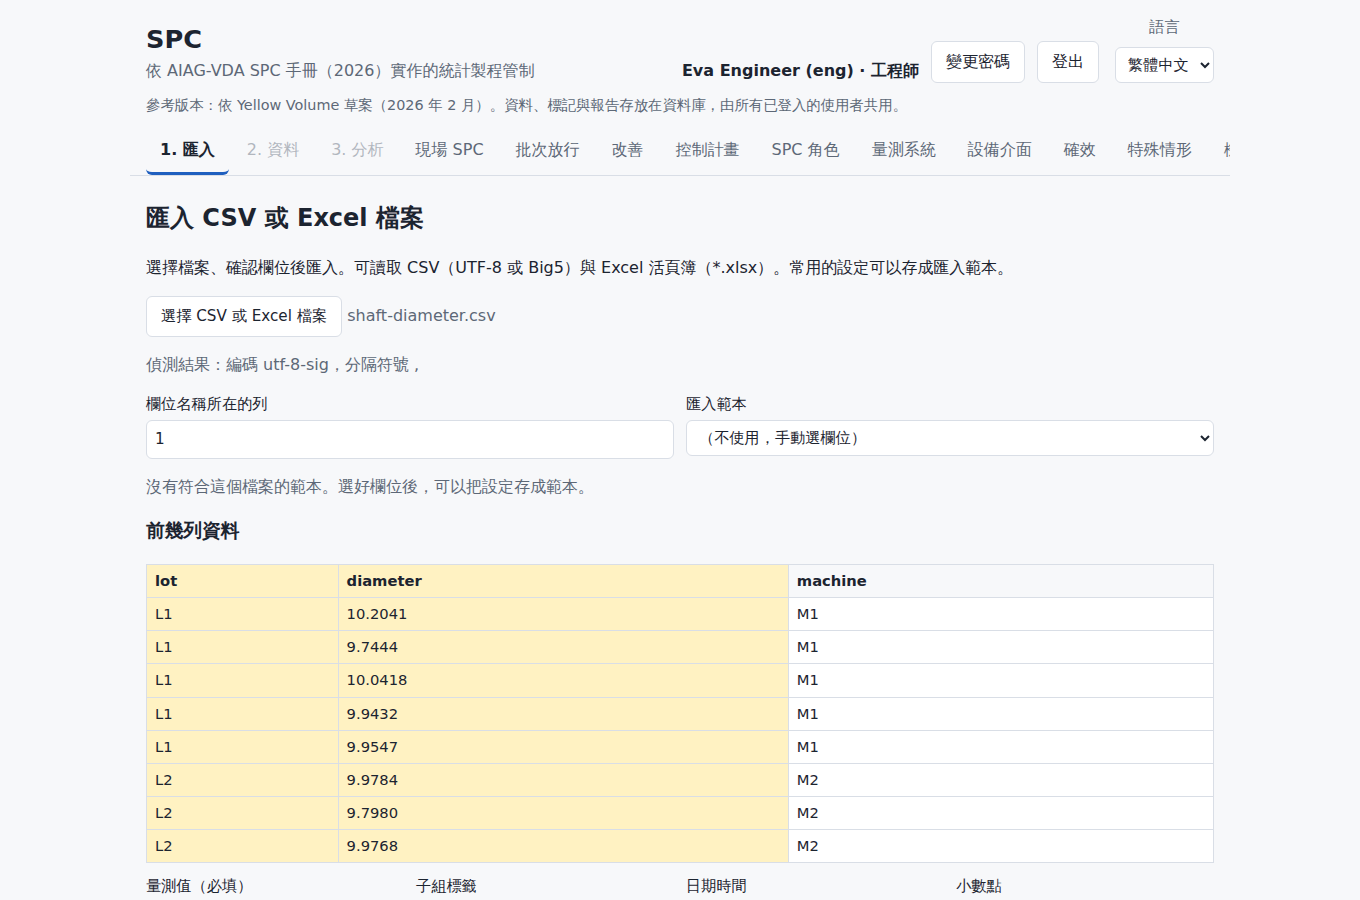
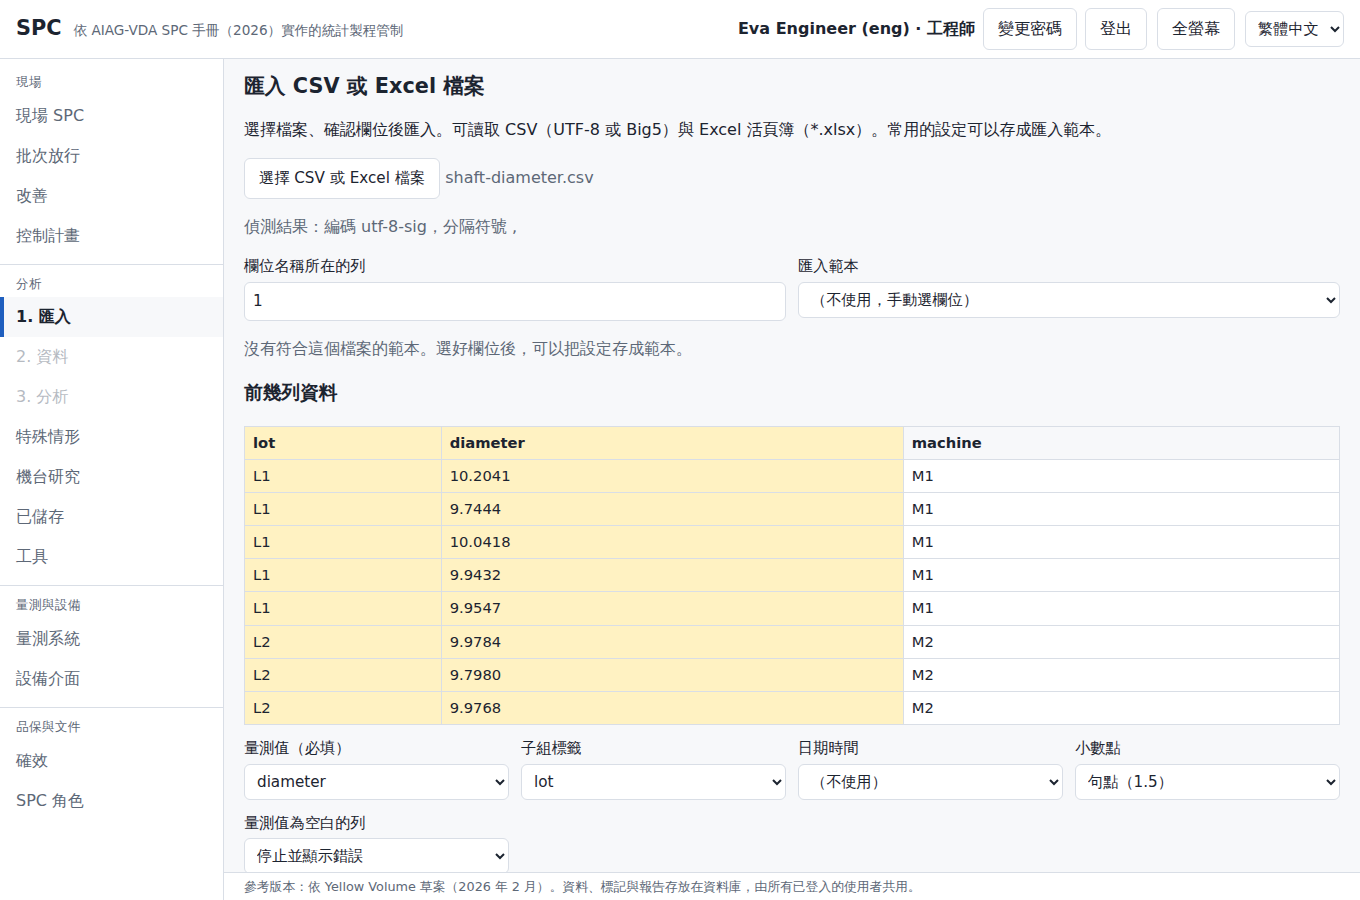
Application frame: fixed layout with a tool column, one screen at a time, pages inside long screens, full screen button
Claude-Session: https://claude.ai/code/session_01WVUQhugMJg5HAizg5gWUFY

diff --git a/src/spc/web/static/app.js b/src/spc/web/static/app.js
@@ -136,6 +136,7 @@
         $("#busy").hidden = true;
         busyButtons.forEach((b) => { b.disabled = b.dataset.wasDisabled === "1"; });
         busyButtons = [];
+        Object.keys(subState).forEach(refreshSubnav);  // the page buttons depend on the state of the screen, not on what they were before the request
       }
     }
   }
@@ -174,6 +175,81 @@
     if (name === "roles") loadRoles();
     if (name === "admin") loadAdmin();
     if (name === "password") renderPasswordPanel();
+  }
+  // ---------------------------------------------------------------- pages inside a screen
+  // A long screen is split into pages with a bar of buttons, so nothing has to be scrolled to find. The parts are hidden with a class (sub-off), because the program
+  // uses `hidden` on the same elements for its own purposes. Screens with a list and a detail view already work like pages and are left alone.
+  const SUBNAV = { analysis: "analysis", tools: "blocks", special: "blocks", admin: "blocks", validation: "blocks", saved: "blocks", roles: "blocks" };
+  const subState = {};
+  function subUnits(section, mode) {
+    const kids = [...section.children].filter((e) => e.tagName !== "H2" && !e.classList.contains("subnav"));
+    if (mode === "analysis") {
+      const result = $("#result"), report = $("#report-card");
+      if (report && report.parentElement === result) section.appendChild(report);  // the report is a page of its own
+      return [
+        { key: "settings", label: () => t("analysis.sub_settings"), els: kids.filter((e) => e !== result && e !== report) },
+        { key: "result", label: () => t("analysis.sub_result"), els: [result], needs: () => !result.hidden },
+        { key: "report", label: () => t("analysis.sub_report"), els: [report], needs: () => !result.hidden },
+      ];
+    }
+    const useH3 = kids.some((e) => e.tagName === "H3");
+    const units = [], lead = [];  // what comes before the first heading (an introduction, a button) belongs to the first page
+    kids.forEach((e) => {
+      if (useH3 ? e.tagName === "H3" : e.classList.contains("card")) units.push({ els: [] });
+      (units.length ? units[units.length - 1].els : lead).push(e);
+    });
+    if (units.length) units[0].els.unshift(...lead);
+    units.forEach((u, i) => {
+      u.key = "p" + i;
+      u.label = () => {
+        const h = u.els.map((e) => (e.matches("h3, h4, summary") ? e : e.querySelector("h3, h4, summary"))).find(Boolean);
+        return h ? h.textContent.trim() : String(i + 1);
+      };
+    });
+    return units;
+  }
+  function buildSubnav(name) {
+    const section = $("#tab-" + name);
+    if (!section || section.querySelector(":scope > .subnav")) return;
+    const units = subUnits(section, SUBNAV[name]);
+    if (units.length < 2) return;
+    const bar = el("div", "subnav");
+    bar.setAttribute("role", "tablist");
+    units.forEach((u) => {
+      const b = el("button", "", "");
+      b.type = "button"; b.setAttribute("role", "tab"); b.dataset.sub = u.key;
+      b.addEventListener("click", () => selectSub(name, u.key));
+      bar.appendChild(b);
+    });
+    section.insertBefore(bar, section.querySelector("h2").nextSibling);
+    units.forEach((u) => u.els.forEach((e) => { e.dataset.subKey = u.key; }));  // which page an element is on
+    subState[name] = { units, bar, current: units[0].key };
+    selectSub(name, units[0].key);
+  }
+  function selectSub(name, key) {
+    const st = subState[name];
+    if (!st) return;
+    const unit = st.units.find((u) => u.key === key);
+    if (!unit || (unit.needs && !unit.needs())) return;
+    st.current = key;
+    st.units.forEach((u) => u.els.forEach((e) => e.classList.toggle("sub-off", u.key !== key)));
+    refreshSubnav(name);
+    const main = $("main"); if (main) main.scrollTop = 0;
+  }
+  function refreshSubnav(name) {  // labels follow the language; a page that needs a result is off until there is one
+    const st = subState[name];
+    if (!st) return;
+    st.units.forEach((u) => {
+      const b = st.bar.querySelector(`[data-sub="${u.key}"]`);
+      b.textContent = u.label();
+      b.setAttribute("aria-selected", String(u.key === st.current));
+      b.disabled = !!(u.needs && !u.needs());
+    });
+  }
+  function initSubnav() {
+    Object.keys(SUBNAV).forEach(buildSubnav);
+    const result = $("#result");
+    if (result) new MutationObserver(() => refreshSubnav("analysis")).observe(result, { attributes: true, attributeFilter: ["hidden"] });
   }
   function unlockTabs() { $$("nav.tabs button").forEach((b) => b.removeAttribute("aria-disabled")); }
 
@@ -727,6 +803,7 @@
       state.reportOut = null;
       renderReportOut();
       renderResult();
+      selectSub("analysis", "result");
     });
   }
 
@@ -4214,6 +4291,7 @@
   function rerender() {
     setExcelLink();
     applyStatic();
+    syncSpecialChartForm();  // its data label is made by code and follows the language
     if (state.preview) { const keep = {}; ROLE_SELECTS.forEach((s) => { keep[s] = $(s).value; }); fillSelects(keep); renderDetected(); renderImportSource(); refreshImportForm(); }
     if (state.dataset) renderData();
     if (state.result) renderResult();
@@ -4238,6 +4316,7 @@
   }
   async function setLanguage(lang) {
     await loadMessages(lang);
+    Object.keys(subState).forEach(refreshSubnav);
     store("spc.lang", lang);
     $("#lang").value = lang;
     if (!state.reportLangTouched) $("#rp-language").value = lang;
@@ -4245,6 +4324,8 @@
   }
   function wire() {
     $("#lang").addEventListener("change", (e) => setLanguage(e.target.value));
+    $("#fs-btn").addEventListener("click", () => { if (document.fullscreenElement) document.exitFullscreen(); else if (document.documentElement.requestFullscreen) document.documentElement.requestFullscreen(); });
+    document.addEventListener("fullscreenchange", () => { $("#fs-btn").textContent = t(document.fullscreenElement ? "app.exit_fullscreen" : "app.fullscreen"); });
     $$("nav.tabs button").forEach((b) => b.addEventListener("click", () => showTab(b.dataset.tab)));
     $("#file").addEventListener("change", (e) => importSerial(() => onFileChosen(e.target.files[0])));
     ROLE_SELECTS.forEach((s) => $(s).addEventListener("change", refreshImportForm));
@@ -4306,6 +4387,7 @@
   }
   async function start() {
     wire();
+    initSubnav();
     try {
       await setLanguage(pickLanguage());
       const meta = await api("/api/meta");

diff --git a/src/spc/web/static/style.css b/src/spc/web/static/style.css
@@ -168,3 +168,55 @@ tr.invalid-point td { color: var(--muted); text-decoration: line-through; }
 #st-items td:nth-child(5) { white-space: nowrap; }
 #st-items input[type=text] { width: 14rem; max-width: 100%; }
 #st-items tr.blocking td:first-child { border-left: 3px solid var(--alarm); }
+
+/* ------------------------------------------------------------------ application frame
+   A fixed frame like a desktop program: top bar, tool column on the left, one screen at a time on the right, status line at the bottom.
+   The page itself never scrolls; only the screen area does, and the long screens are split into pages with a bar of buttons (see subnav in app.js). */
+html, body { height: 100%; }
+body { overflow: hidden; display: flex; flex-direction: column; }
+header.top { max-width: none; margin: 0; width: 100%; padding: 8px 16px; flex: 0 0 auto; align-items: center; flex-wrap: nowrap; background: var(--surface); border-bottom: 1px solid var(--line); }
+.brand { display: flex; align-items: baseline; gap: 12px; min-width: 0; }
+.brand h1 { font-size: 1.3rem; }
+.brand p { font-size: 0.85rem; white-space: nowrap; overflow: hidden; text-overflow: ellipsis; }
+.userbar { align-items: center; flex-wrap: nowrap; gap: 10px; flex: 0 0 auto; }
+.userbar .row { align-items: center; flex-wrap: nowrap; gap: 8px; }
+.lang { white-space: nowrap; }
+.lang > span { display: none; }
+#errors, #busy { max-width: none; margin: 0; padding: 6px 16px; flex: 0 0 auto; }
+#login { align-self: center; margin-top: 8vh; width: 100%; }
+#app { flex: 1 1 auto; min-height: 0; display: grid; grid-template-columns: 224px minmax(0, 1fr); grid-template-rows: minmax(0, 1fr) auto; }
+#app[hidden] { display: none !important; }
+nav.tabs { grid-row: 1 / 3; grid-column: 1; display: block; max-width: none; margin: 0; padding: 8px 0 12px; overflow-y: auto; border-bottom: 0; border-right: 1px solid var(--line); background: var(--surface); }
+.navgroup { padding: 4px 0 8px; }
+.navgroup + .navgroup { border-top: 1px solid var(--line); padding-top: 8px; }
+.navtitle { padding: 2px 16px 4px; font-size: 0.78rem; letter-spacing: 0.04em; color: var(--muted); }
+nav.tabs button { display: flex; align-items: center; justify-content: space-between; gap: 8px; width: 100%; min-height: 38px; text-align: left; border: 0; border-left: 4px solid transparent; border-radius: 0; padding: 8px 14px 8px 12px; white-space: normal; }
+nav.tabs button:hover:not([aria-disabled="true"]) { background: var(--bg); }
+nav.tabs button[aria-selected="true"] { background: var(--bg); border-left-color: var(--primary); border-bottom-color: transparent; font-weight: 700; }
+main { grid-row: 1; grid-column: 2; max-width: none; margin: 0; width: 100%; overflow-y: auto; padding: 12px 20px 24px; min-width: 0; position: relative; }
+.notice { grid-row: 2; grid-column: 2; max-width: none; margin: 0; padding: 4px 20px; border-top: 1px solid var(--line); background: var(--surface); font-size: 0.8rem; overflow: hidden; text-overflow: ellipsis; white-space: nowrap; }
+.panel h2 { margin: 0 0 8px; font-size: 1.3rem; }
+.subnav { display: flex; gap: 6px; flex-wrap: wrap; position: sticky; top: -12px; z-index: 5; margin: 0 -20px 12px; padding: 8px 20px; background: var(--bg); border-bottom: 1px solid var(--line); }
+.subnav button { min-height: 40px; padding: 6px 16px; border-radius: 20px; }
+.subnav button[aria-selected="true"] { background: var(--primary); color: var(--primary-text); border-color: var(--primary); font-weight: 600; }
+.subnav button:disabled { opacity: 0.4; }
+.sub-off { display: none !important; }
+@media (pointer: coarse) {
+  nav.tabs button { min-height: 44px; }
+  button, label.filebtn span, a.button { min-height: 44px; }
+  input[type="text"], input[type="number"], input[type="password"], select { min-height: 44px; }
+}
+@media (max-width: 860px) {
+  #app { grid-template-columns: 1fr; grid-template-rows: auto minmax(0, 1fr) auto; }
+  nav.tabs { grid-row: 1; grid-column: 1; display: flex; overflow-x: auto; overflow-y: hidden; border-right: 0; border-bottom: 1px solid var(--line); padding: 0; }
+  .navgroup, .navgroup + .navgroup { display: flex; border-top: 0; padding: 0; }
+  .navtitle { display: none; }
+  nav.tabs button { width: auto; white-space: nowrap; border-left: 0; border-bottom: 3px solid transparent; }
+  nav.tabs button[aria-selected="true"] { border-bottom-color: var(--primary); }
+  main { grid-row: 2; grid-column: 1; padding: 12px; }
+  .notice { grid-row: 3; grid-column: 1; }
+  .brand p { display: none; }
+  header.top, .userbar, .userbar .row { flex-wrap: wrap; }
+  .userbar { flex: 1 1 100%; justify-content: flex-start; }
+  .subnav { margin: 0 -12px 12px; padding: 8px 12px; }
+}

diff --git a/src/spc/web/static/index.html b/src/spc/web/static/index.html
@@ -19,6 +19,7 @@
       <button id="pw-btn" data-i18n="user.change_password"></button>
       <button id="logout-btn" data-i18n="user.logout"></button>
     </div>
+    <button id="fs-btn" type="button" data-i18n="app.fullscreen"></button>
     <label class="lang">
       <span data-i18n="app.language"></span>
       <select id="lang">
@@ -50,23 +51,33 @@
 <div id="app" hidden>
 <p class="notice" data-i18n="app.notice"></p>
 
-<nav class="tabs" role="tablist">
-  <button role="tab" data-tab="import" data-needs="engineer" aria-selected="true" data-i18n="nav.import"></button>
-  <button role="tab" data-tab="data" aria-selected="false" aria-disabled="true" data-i18n="nav.data"></button>
-  <button role="tab" data-tab="analysis" aria-selected="false" aria-disabled="true" data-i18n="nav.analysis"></button>
+<nav class="tabs" role="tablist" aria-orientation="vertical">
+  <div class="navgroup" role="presentation"><div class="navtitle" data-i18n="nav.group_floor"></div>
   <button role="tab" data-tab="monitor" aria-selected="false"><span data-i18n="nav.monitor"></span> <span id="alert-badge" class="badge" hidden></span></button>
   <button role="tab" data-tab="lots" aria-selected="false" data-i18n="nav.lots"></button>
   <button role="tab" data-tab="improve" aria-selected="false" data-i18n="nav.improve"></button>
   <button role="tab" data-tab="plan" aria-selected="false" data-i18n="nav.plan"></button>
-  <button role="tab" data-tab="roles" aria-selected="false" data-i18n="nav.roles"></button>
-  <button role="tab" data-tab="msa" aria-selected="false" data-i18n="nav.msa"></button>
-  <button role="tab" data-tab="equipment" aria-selected="false" data-i18n="nav.equipment"></button>
-  <button role="tab" data-tab="validation" aria-selected="false" data-i18n="nav.validation"></button>
+  </div>
+  <div class="navgroup" role="presentation"><div class="navtitle" data-i18n="nav.group_analysis"></div>
+  <button role="tab" data-tab="import" data-needs="engineer" aria-selected="true" data-i18n="nav.import"></button>
+  <button role="tab" data-tab="data" aria-selected="false" aria-disabled="true" data-i18n="nav.data"></button>
+  <button role="tab" data-tab="analysis" aria-selected="false" aria-disabled="true" data-i18n="nav.analysis"></button>
   <button role="tab" data-tab="special" aria-selected="false" data-i18n="nav.special"></button>
   <button role="tab" data-tab="study" aria-selected="false" data-i18n="nav.study"></button>
   <button role="tab" data-tab="saved" aria-selected="false" data-i18n="nav.saved"></button>
   <button role="tab" data-tab="tools" aria-selected="false" data-i18n="nav.tools"></button>
+  </div>
+  <div class="navgroup" role="presentation"><div class="navtitle" data-i18n="nav.group_msa"></div>
+  <button role="tab" data-tab="msa" aria-selected="false" data-i18n="nav.msa"></button>
+  <button role="tab" data-tab="equipment" aria-selected="false" data-i18n="nav.equipment"></button>
+  </div>
+  <div class="navgroup" role="presentation"><div class="navtitle" data-i18n="nav.group_quality"></div>
+  <button role="tab" data-tab="validation" aria-selected="false" data-i18n="nav.validation"></button>
+  <button role="tab" data-tab="roles" aria-selected="false" data-i18n="nav.roles"></button>
+  </div>
+  <div class="navgroup" role="presentation" data-needs="admin"><div class="navtitle" data-i18n="nav.group_system"></div>
   <button role="tab" data-tab="admin" data-needs="admin" aria-selected="false" data-i18n="nav.admin"></button>
+  </div>
 </nav>
 
 <main>

diff --git a/tests/test_ui_e2e.py b/tests/test_ui_e2e.py
@@ -30,6 +30,64 @@ def app():
     return make_app(max_upload=20 * 1024 * 1024)
 
 
+# A long screen is split into pages with a bar of buttons (see subnav in app.js). A person clicks the page button; the tests do it for the element they are about to use:
+# every action on an element first opens the page that holds the element.
+_REVEAL = """async (e) => {
+  const u = e.closest('[data-sub-key]');
+  if (!u || !u.classList.contains('sub-off')) return;
+  const bar = u.closest('section').querySelector(':scope > .subnav');
+  const b = bar && bar.querySelector('[data-sub="' + u.dataset.subKey + '"]');
+  if (!b) return;
+  for (let i = 0; i < 100 && b.disabled; i++) await new Promise((r) => setTimeout(r, 100));  // the buttons are off while a request runs
+  if (!b.disabled) b.click();
+}"""
+
+
+def _reveal(locator):
+    try:
+        locator.first.wait_for(state="attached", timeout=15000)  # it may be made by the answer to the click before
+        locator.first.evaluate(_REVEAL)
+    except Exception:  # an element that is gone, or a page that is closing: the action itself reports it
+        pass
+
+
+def show(page, selector):
+    """Open the page of the screen that holds `selector` (what a person does with the page button) before a check on it."""
+    _reveal(page.locator(selector))
+
+
+def _install_page_reveal():
+    from playwright.sync_api import Locator, Page
+
+    def wrap_page(name):
+        orig = getattr(Page, name)
+
+        def method(self, selector, *a, **k):
+            if isinstance(selector, str):
+                _reveal(self.locator(selector))
+            return orig(self, selector, *a, **k)
+
+        setattr(Page, name, method)
+
+    def wrap_locator(name):
+        orig = getattr(Locator, name)
+
+        def method(self, *a, **k):
+            _reveal(self)
+            return orig(self, *a, **k)
+
+        setattr(Locator, name, method)
+
+    for n in ("click", "fill", "select_option", "check", "uncheck", "set_input_files", "dblclick", "press", "type"):
+        wrap_page(n)
+    for n in ("click", "fill", "select_option", "check", "uncheck", "set_input_files", "dblclick", "press", "type"):
+        wrap_locator(n)
+
+
+if playwright_sync is not None:
+    _install_page_reveal()
+
+
 def sign_in(page, user="eng", password=PASSWORD, wait=True):
     page.fill("#login-user", user)
     page.fill("#login-pass", password)
@@ -521,6 +579,7 @@ def test_excel_downloads_in_the_browser(server, browser, tmp_path):
     assert any(c.value == "turning" for row in report["Report elements"].iter_rows() for c in row)
 
     page.click("nav.tabs button[data-tab=saved]")
+    show(page, "#saved-reports a")
     expect(page.locator("#saved-reports a", has_text="Excel").first).to_be_visible()  # earlier tests made reports too
     ctx.close()
 
@@ -591,6 +650,7 @@ def test_customer_profile_from_editor_to_report(server, browser, tmp_path):
     expect(page.locator("#r-targets")).to_contain_text("1.81")
     expect(page.locator("#r-targets")).not_to_contain_text("1.33")
 
+    show(page, "#rp-extra")
     expect(page.locator("#rp-extra")).to_be_visible()
     expect(page.locator("label.required", has_text="Part no.")).to_have_count(1)
     expect(page.locator("label.required", has_text="Drawing number")).to_have_count(1)
@@ -1679,6 +1739,7 @@ def test_special_cases_multistage_and_gdt_in_the_browser(server, browser, tmp_pa
     page.goto(server)
     sign_in(page)
     page.click("nav.tabs button[data-tab=special]")
+    show(page, "#sp-comb-none")
     expect(page.locator("#sp-comb-none")).to_be_visible()
 
     # the scope of the draft's example 2: 3 machines, 7 pallets
@@ -1701,6 +1762,7 @@ def test_special_cases_multistage_and_gdt_in_the_browser(server, browser, tmp_pa
     page.click("#import-btn")
     expect(page.locator("#data-counts")).to_contain_text("60 values", timeout=20000)
     page.click("nav.tabs button[data-tab=special]")
+    show(page, "#sp-comb-form")
     expect(page.locator("#sp-comb-form")).to_be_visible()
     page.locator("#sp-factors input[value=pallet]").check()
     page.fill("#sp-lsl", "9.5")
@@ -1795,6 +1857,7 @@ def test_multivariate_nested_and_trend_in_the_browser(server, browser, tmp_path)
     expect(page.locator("#a-model-rec")).to_contain_text("Shewhart chart", timeout=20000)
     page.select_option("#a-class", "major")
     page.click("#run-btn")
+    show(page, "#rp-special-wrap")
     expect(page.locator("#rp-special-wrap")).to_be_visible(timeout=40000)
     page.locator("#rp-special input[value=trend]").check()
     page.locator("#rp-special input[value=nested]").check()
